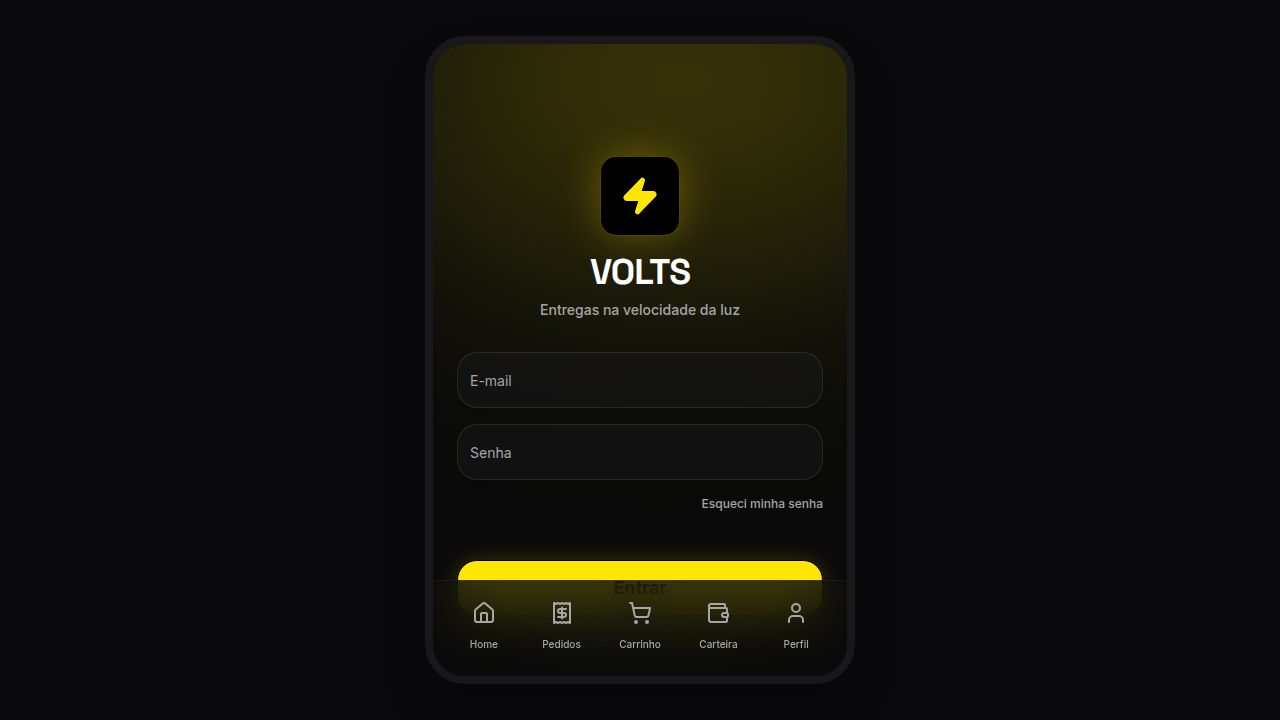
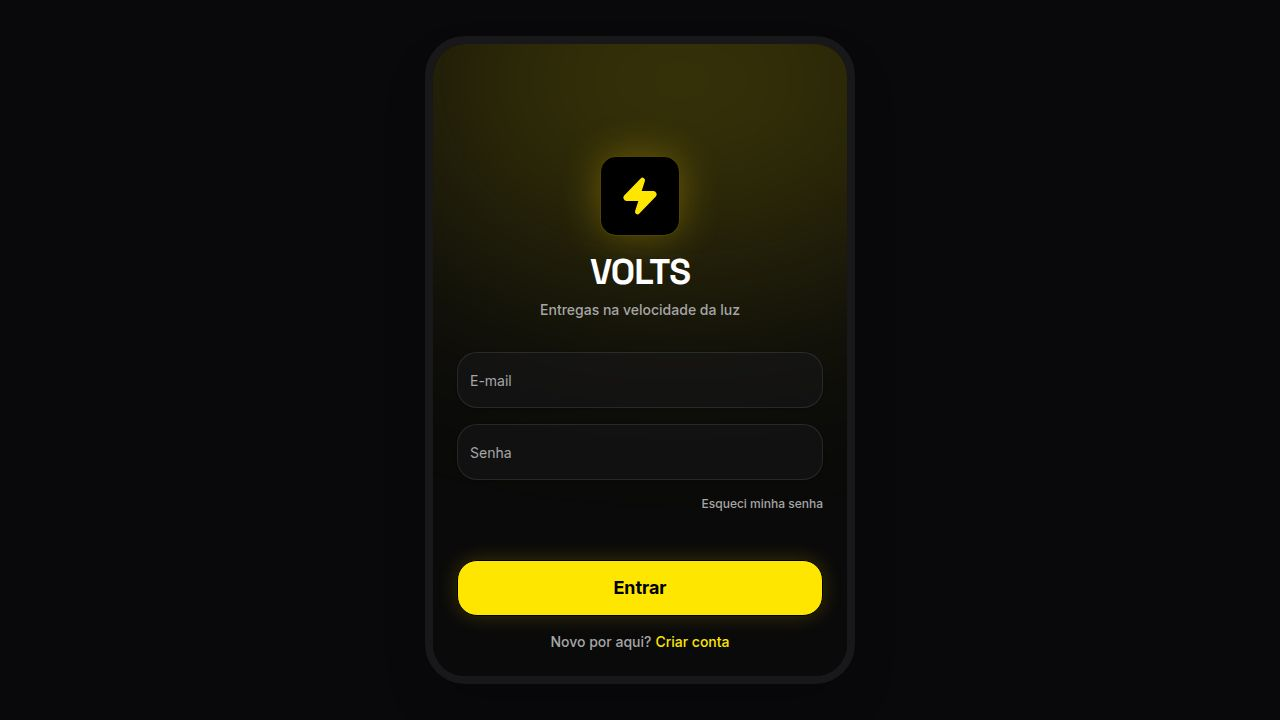
Hide bottom navigation on authentication pages
Conditionally render the `BottomNav` component based on the current route, hiding it for authentication-related paths (`/`, `/login`, `/register`, `/recovery`) and displaying it otherwise.

Replit-Commit-Author: Agent
Replit-Commit-Session-Id: abaf4bdb-b612-49c8-8aa8-e3514e063201
Replit-Commit-Checkpoint-Type: full_checkpoint
Replit-Commit-Event-Id: 0d8c3f0a-2a84-4772-9cb2-23beaaf88ee7
Replit-Commit-Screenshot-Url: https://storage.googleapis.com/screenshot-production-us-central1/5216a527-0384-43b2-be5b-af8dcc9d9ca9/abaf4bdb-b612-49c8-8aa8-e3514e063201/E9yGhfN
Replit-Helium-Checkpoint-Created: true

Changed region(s): [[0.3438, 0.7944, 0.6562, 0.8556], [0.4062, 0.8861, 0.5938, 0.9167]]

diff --git a/client/src/App.tsx b/client/src/App.tsx
@@ -17,7 +17,7 @@ import BottomNav from "@/components/layout/bottom-nav";
 
 function Router() {
   const [location] = useLocation();
-  const isAuthRoute = ['/', '/login', '/register', '/recovery'].includes(location);
+  const isAuthRoute = location === '/' || location.startsWith('/login') || location.startsWith('/register') || location.startsWith('/recovery');
 
   return (
     <div className="mobile-container">
